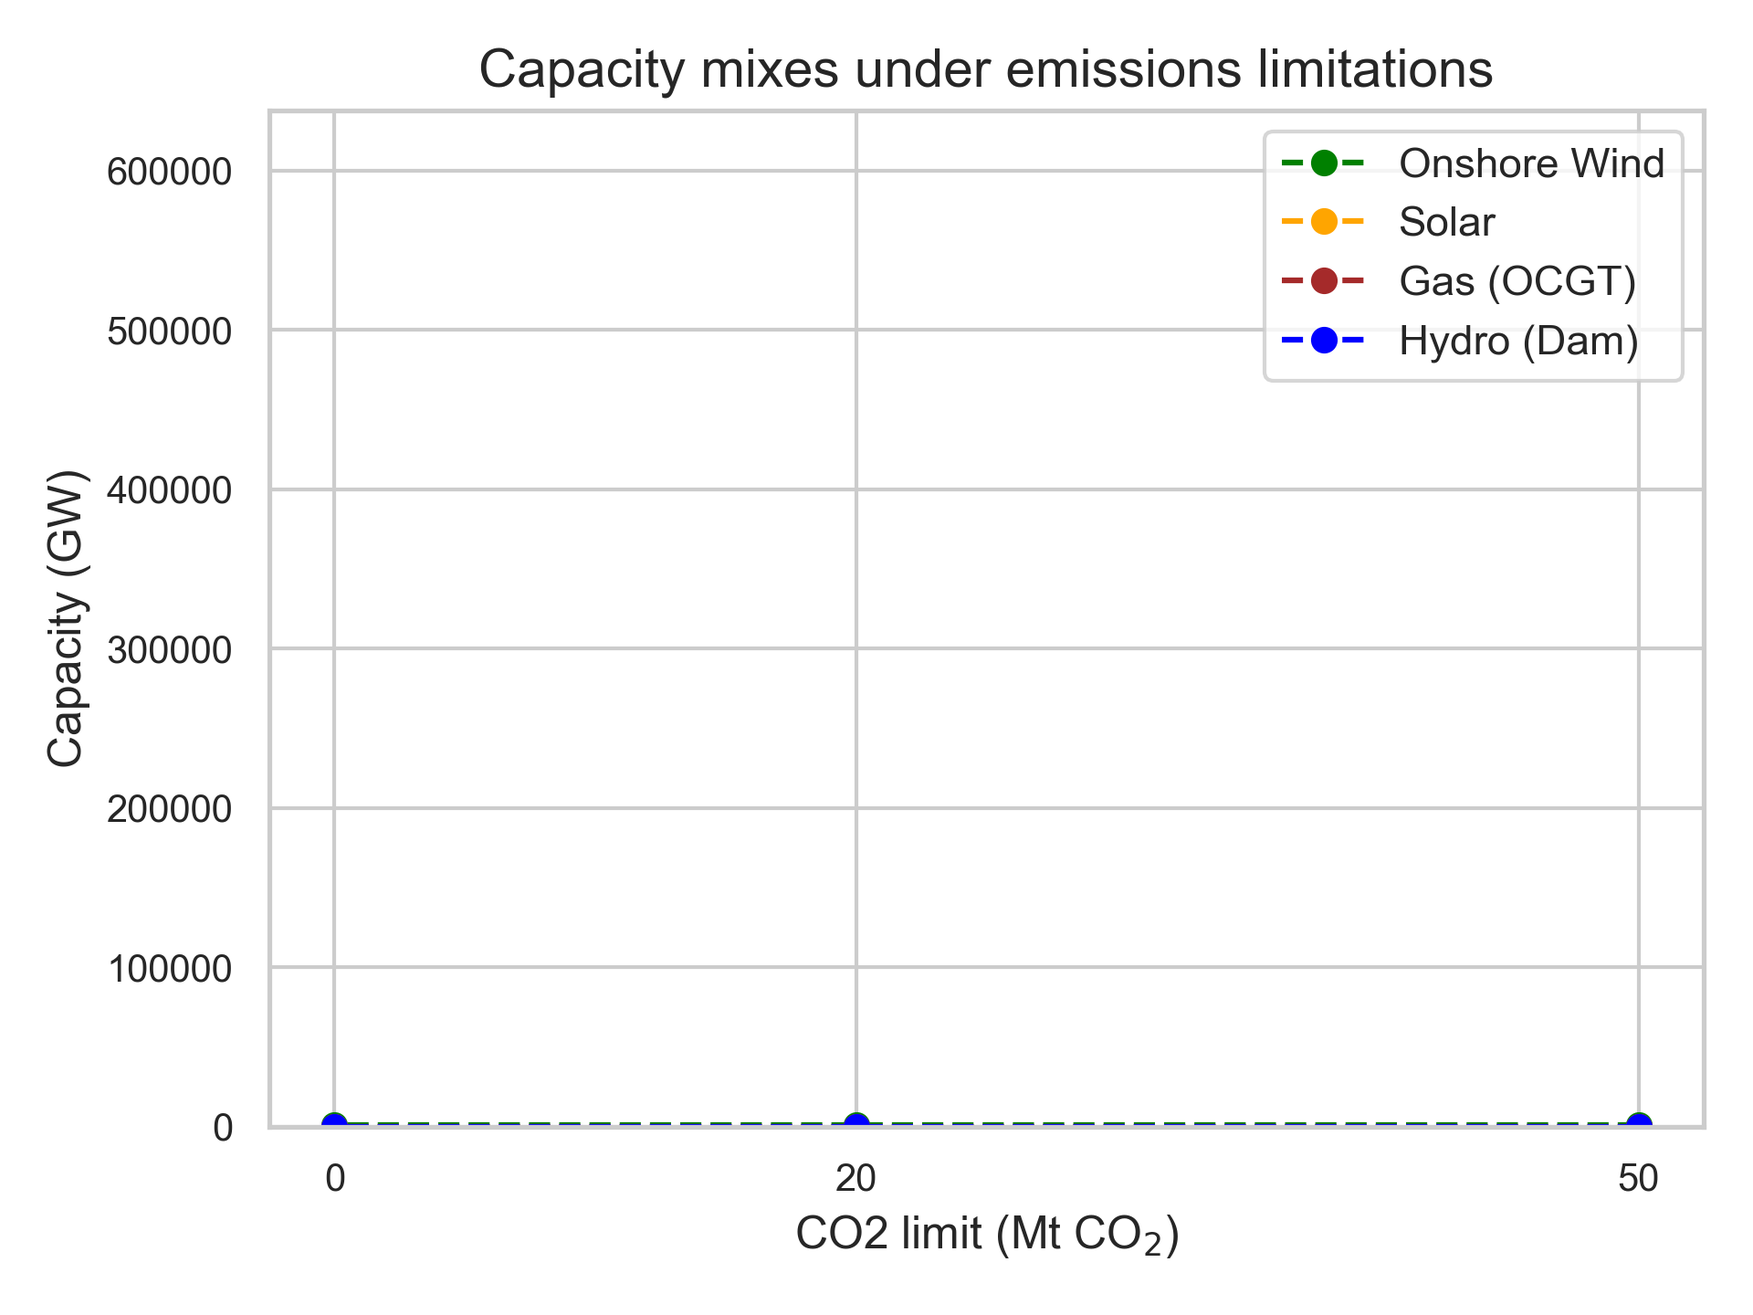
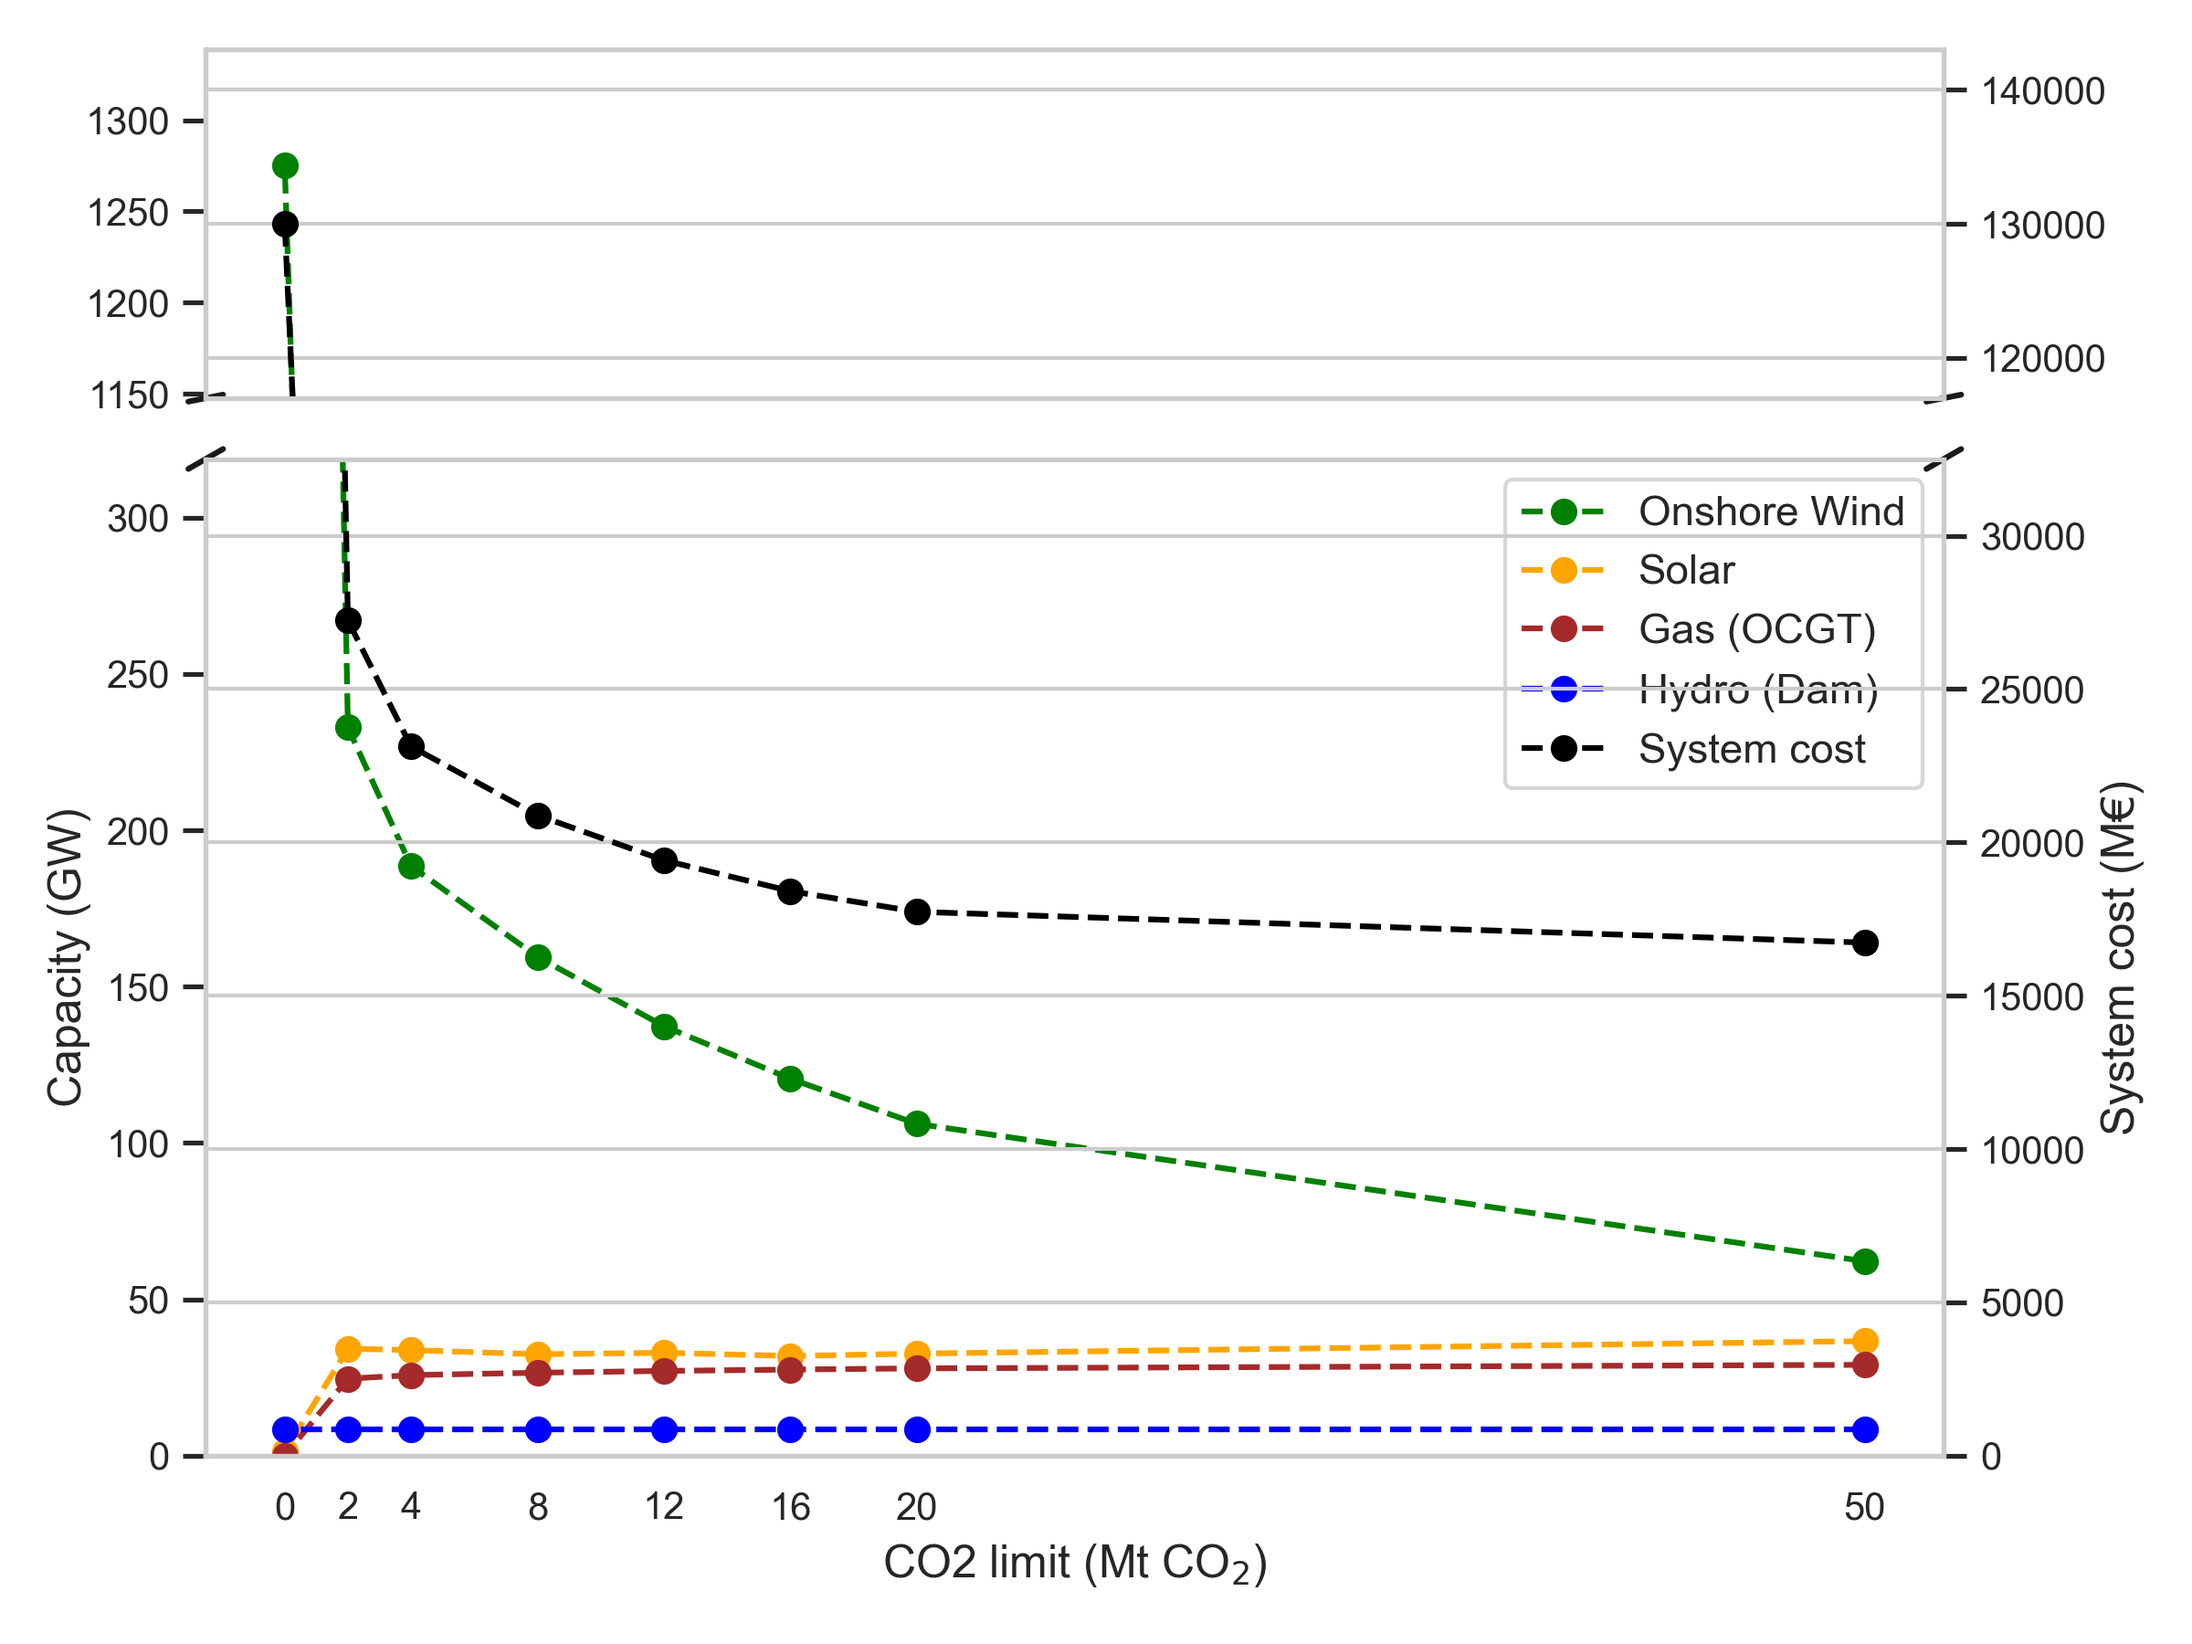
task g done for now

diff --git a/g.py b/g.py
@@ -58,7 +58,7 @@ def cop(t_source, t_sink=55):
     delta_t = t_sink - t_source
     return 6.81 - 0.121 * delta_t + 0.00063 * delta_t**2
 
-def create_heat_sector(n:pypsa.Network, heat_demand_profile:pd.Series, data:DataLoader):
+def couple_el_and_heat_sector(n:pypsa.Network, data:DataLoader):
     """
     Create the heat sector in the network.
     
@@ -69,12 +69,6 @@ def create_heat_sector(n:pypsa.Network, heat_demand_profile:pd.Series, data:Data
     Returns:
         pypsa.Network: The updated PyPSA network object with the heat sector added.
     """
-    # Add a bus for the heat sector
-    n.add("Bus", "heat bus", carrier="heat", x=data.coordinates[data.country][0], y=data.coordinates[data.country][1])
-    
-    # Add a load for the heating demand
-    n.add("Load", "heating demand", bus="heat bus", p_set=heat_demand_profile.values)
-    
     # Add a link for the heat pump
     n.add("Link",
         "heat pump",
@@ -114,7 +108,7 @@ def create_heat_sector(n:pypsa.Network, heat_demand_profile:pd.Series, data:Data
 
     return n
 
-def create_and_run_heat_network(data:DataLoader, heat_demand_profile:pd.Series):
+def create_non_coupled_el_and_heat_network(data:DataLoader, heat_demand_profile:pd.Series):
     """
     Create and run the heat network.
     
@@ -127,8 +121,8 @@ def create_and_run_heat_network(data:DataLoader, heat_demand_profile:pd.Series):
     """
     # Create the network
     n = create_network(data)
+    n = add_storage(n, data)
     n.add("Carrier", "heat")
-    n.add("Carrier", "biomass")
     # Add a bus for the heat sector
     n.add("Bus", "heat bus", carrier="heat", x=data.coordinates[data.country][0], y=data.coordinates[data.country][1])
     # Add a load for the heating demand
@@ -144,9 +138,6 @@ def create_and_run_heat_network(data:DataLoader, heat_demand_profile:pd.Series):
         marginal_cost=data.costs.at["biomass boiler", "marginal_cost"],
         efficiency=data.costs.at["biomass boiler", "efficiency"],
     )
-    
-    # Optimize the network
-    n.optimize()
     
     return n
 
@@ -165,31 +156,28 @@ if __name__ == "__main__":
     
     # Plot the heating demand profile
     plt.figure(figsize=(10, 5))
-    plt.plot(heating_demand_profile.index, heating_demand_profile.values, label='Heating Demand Profile From Temperature', alpha=0.5)
+    #plt.plot(heating_demand_profile.index, heating_demand_profile.values, label='Heating Demand Profile From Temperature', alpha=0.5)
     plt.plot(heating_demand_data.index, heating_demand_data.values, label='Heating Demand Data', alpha=0.5)
     plt.xlabel('Date')
     plt.ylabel('Heating Demand (MWh/h)')
-    plt.title('Heating Demand Profile Generation Comparison')
-    plt.legend()
+    plt.title('Heating Demand Profile')
+    plt.xlim(heating_demand_profile.index[0], heating_demand_profile.index[-1])
+    #plt.legend()
     plt.grid()
-    plt.show()
+    plot.save_figure("heating_demand_profile.png")
+    plt.close()
 
     data = DataLoader(country="ESP", discount_rate=0.07)
 
     # Create the heat network
-    heat_network = create_and_run_heat_network(data, heating_demand_profile)
-    heat_network.plot(margin=0.4)
-    plt.show()
-    print("System cost for simple heating solution: ", heat_network.objective/1e6) # in million EUR
+    heat_network = create_non_coupled_el_and_heat_network(data, heating_demand_profile)
+    heat_network.optimize()
+    print("Combined system costs for simple heating solution: ", heat_network.objective/1e6) # in million EUR
 
     # Create the network
-    network = create_network(data)
-    network = add_storage(network, data)
-    # network = add_co2_constraint(network, 0) # 1 MT CO2 limit
-    # network = add_neighbors(network, data)
+    coupled_network = couple_el_and_heat_sector(heat_network, data)
+    coupled_network.optimize()
+    print("Combined system cost for coupled heating solution: ", heat_network.objective/1e6)
 
-    # Optimize the network
-    network.optimize()
-    
-    plot.plot_series(network) #, filename="d_storage_plot.png")
-    plot.plot_storage_season([network]) #, filename="d_storage_season_plot.png")
+    plot.plot_series(coupled_network) #, filename="d_storage_plot.png")
+    plot.plot_storage_season([coupled_network]) #, filename="d_storage_season_plot.png")

diff --git a/results_plotter.py b/results_plotter.py
@@ -110,6 +110,8 @@ def plot_duration_curves(network, filename: str | None = None):
     plt.show()
 
 def plot_capacity_variation_under_varying_co2_limits(network_sols, co2_limits, system_costs, filename: str | None = None):
+    mixes = np.array(network_sols).T*1e-3 # in GW
+    
     colors = []
     labels = []
     for ix, gen in enumerate(REFERENCES['GENERATORS']):
@@ -118,30 +120,48 @@ def plot_capacity_variation_under_varying_co2_limits(network_sols, co2_limits, s
     for ix, link in enumerate(REFERENCES['LINKS']):
         colors += [COLORS['LINKS'][ix]]
         labels += [LABELS['LINKS'][ix]]
-    
-    fig, ax = plt.subplots(figsize=(10, 6))
-    ax2 = ax.twinx()
-    ax2.plot(co2_limits, system_costs, 'r--', label='System cost', color='black')
-    ax2.set_ylabel('System cost (M€)')
+    fig, (ax_upper, ax_lower) = plt.subplots(2, 1, sharex=True, figsize=(8, 6),
+                               gridspec_kw={'height_ratios': [0.7, 2]})
+    ax_upper.grid(False)
+    ax_lower.grid(False)
+    ax_upper.spines['bottom'].set_visible(False)
+    ax_lower.spines['top'].set_visible(False)
+    ax_upper.tick_params(labelbottom=False)
+    d = .01  # size of diagonal lines
+    kwargs = dict(transform=ax_upper.transAxes, color='k', clip_on=False)
+    ax_upper.plot((-d, +d), (-d, +d), **kwargs)        # top-left diagonal
+    ax_upper.plot((1 - d, 1 + d), (-d, +d), **kwargs)  # top-right diagonal
 
-    mixes = np.array(network_sols).T
+    kwargs.update(transform=ax_lower.transAxes)
+    ax_lower.plot((-d, +d), (1 - d, 1 + d), **kwargs)  # bottom-left diagonal
+    ax_lower.plot((1 - d, 1 + d), (1 - d, 1 + d), **kwargs)  # bottom-right diagonal
 
-    for ix, label in enumerate(labels):
-        ax.plot(co2_limits, mixes[ix]*1e-3, '--bo', label=label, color=colors[ix])
-    ax.set_xlabel(r"CO2 limit (Mt CO$_2$)")
-    ax.set_xticks(co2_limits, [str(int(x/1e6)) for x in co2_limits])
-    ax.set_ylabel(r"Capacity (GW)")
+    ax_lower.set_xlabel(r"CO2 limit (Mt CO$_2$)")
+    ax_lower.set_xticks(co2_limits, [str(int(x/1e6)) for x in co2_limits])
+
+    ylims = [[(0.9*np.max(mixes), 1.05*np.max(mixes)),  (0.9*np.max(system_costs), 1.1*np.max(system_costs))],
+             [(0, 0.25*np.max(mixes)),  (0, 0.25*np.max(system_costs))]]
+    for ix, ax in enumerate((ax_upper, ax_lower)):
+        ax2 = ax.twinx()
+        if ix == 1:
+            ax.set_ylabel('Capacity (GW)')
+            ax2.set_ylabel('System cost (M€)')
+
+        ax2.plot(co2_limits, system_costs, '--o', label='System cost', color='black')
+
+        for ix2, label in enumerate(labels):
+            ax.plot(co2_limits, mixes[ix2], '--o', label=label, color=colors[ix2])
+        
+        ax.set_ylim(ylims[ix][0])
+        ax2.set_ylim(ylims[ix][1])
     
     h, l = ax.get_legend_handles_labels()
     h2, l2 = ax2.get_legend_handles_labels()
-    ax2.legend(h + h2, l + l2, loc='best', fancybox=True)
-
-    ax.title(r'Capacity mixes under emissions limitations')
+    ax_lower.legend(h + h2, l + l2, loc='best', fancybox=True)
 
     if filename is not None: save_figure(filename)
 
-    plt.show()
-
+    plt.show() 
 
 def plot_weather_variability(network_sols, filename: str = None):
     colors = []

diff --git a/b.py b/b.py
@@ -5,8 +5,8 @@ import results_plotter as plot
 import numpy as np
 
 def create_co2_limits(n_opts: int = 10):
-    return np.array([50, 4, 0]) * 1e6
-    #return np.array([50, 20, 16, 12, 8, 4, 2, 0]) * 1e6 #tonCO2
+    #return np.array([50, 4, 0]) * 1e6
+    return np.array([50, 20, 16, 12, 8, 4, 2, 0]) * 1e6 #tonCO2
     # return np.append(np.array([50e6]), np.linspace(20e6, 0, n_opts-1)) #tonCO2
 
 def add_co2_constraint(network: pypsa.Network, co2_limit: float):
